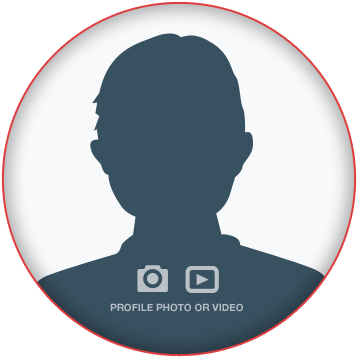
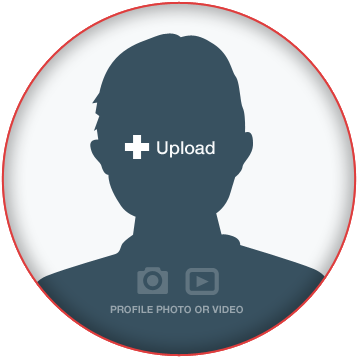
Registration - Upload profile pic

diff --git a/public/client-new/js/view/registrationView.js b/public/client-new/js/view/registrationView.js
@@ -85,7 +85,7 @@ define(['view/formView' ,'../../lib/bootstrap-select'], function(FormView, Boots
 			$('#step2_block').removeClass('active-border');
 			
 			var upload_block = '<div id="step3_block" class="round-block upload-photo step-3-photo">'
-			    +'<a class="browse" href="#"> <img src="" id="profile-photo"> <div class="upload-box"><div class="upload-plus">Upload</div></div></a>'
+			    +'<a class="browse" href="#"><img src="/beamstream-new/images/upload-photo.png" width="148" height="37" id="profile-photo"> <div class="upload-box"><div class="upload-plus">Upload</div></div></a>'
                 +'</div>';
 			$('#upload-step').html(upload_block);
 			$('#step_3').show(500);

diff --git a/public/client-new/css/style.css b/public/client-new/css/style.css
@@ -5126,7 +5126,7 @@ font-weight:500;}
 }
 
 .upload-photo a {
-		background:url(../images/upload-photo.png) no-repeat;
+	
 		display:block;
 		margin:0 auto;
 		background-size:100%; 
@@ -5146,8 +5146,17 @@ font-weight:500;}
 
 }
 
-.step-3-photo a{position:relative;top:98px;}
+.step-3-photo a{position:relative;top:98px;
 
+
+
+}
+
+.upload-photo a img{
+	background-size:100%;
+	background-color:#fff;
+
+}
 
 /*
 .step-one-photo a {

diff --git a/public/client-new/css/bootstrap-responsive.css b/public/client-new/css/bootstrap-responsive.css
@@ -1044,6 +1044,15 @@ ul.signup-register li.lastblock {
  		top:-58px;
 }
 
+.upload-photo a img{
+	border-radius: 100% 100% 100% 100%;
+    height:63%;
+    width: 100%;
+
+
+}
+
+
 .step-3-photo a {
  
     top:47px;
@@ -2149,6 +2158,16 @@ ul.signup-register li.lastblock {
     width: 27%;
 }
    
+   
+   
+   .upload-photo a img{
+
+	border-radius: 100% 100% 100% 100%;
+    height: 100%;
+    width: 100%;
+
+
+}
    
    
    
